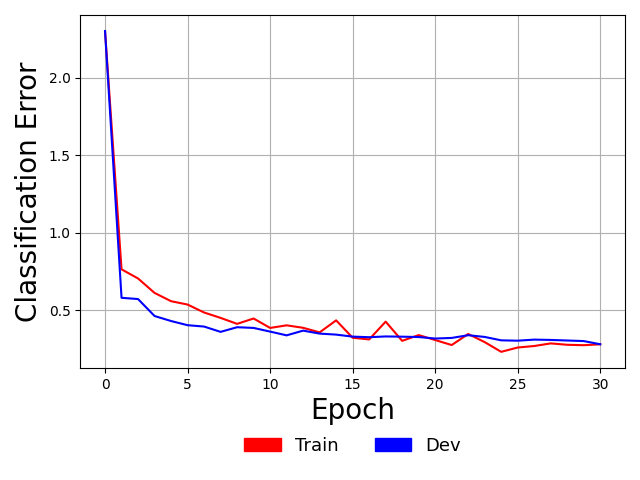
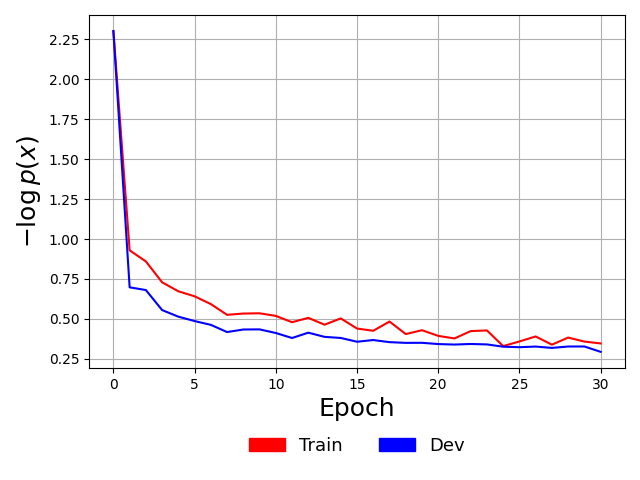
fixed minor bug in print out of valid log likelihood in walkthrough 7

diff --git a/ngclearn/engine/cables/rules/chebb_rule.py b/ngclearn/engine/cables/rules/chebb_rule.py
@@ -39,6 +39,7 @@ class CHebbRule(UpdateRule):
     def set_terms(self, terms, weights=None):
         if len(terms) == 4:
             self.terms = terms
+            self.weights = weights
         else:
             print("ERROR: {} must contain 4 terms "
                   "(input.len = {}) (rule.name = {})".format(self.rule_type,
@@ -46,6 +47,12 @@ class CHebbRule(UpdateRule):
             sys.exit(1)
 
     def calc_update(self, for_bias=False):
+        w0 = 1
+        w1 = 1
+        if self.weights is not None:
+            w0 = self.weights[0]
+            w1 = self.weights[1]
+
         preact1 = self.terms[0]
         postact1 = self.terms[1]
         preact2 = self.terms[2]
@@ -79,16 +86,16 @@ class CHebbRule(UpdateRule):
                 A_minus = transform.gte(params - self.w_min) #* self.eta_minus
 
         if for_bias == False: # update matrix
-            delta_plus = (tf.matmul(preact_term1, postact_term1, transpose_a=True)) * A_plus
-            delta_minus = tf.matmul(preact_term2, postact_term2, transpose_a=True) * A_minus
+            delta_plus = (tf.matmul(preact_term1 * w0, postact_term1 * w1, transpose_a=True)) * A_plus
+            delta_minus = tf.matmul(preact_term2 * w0, postact_term2 * w1, transpose_a=True) * A_minus
             # calculate the final update matrix
             #update = delta_plus + delta_minus
-            #update = delta_plus * self.eta_plus - delta_minus * self.eta_minus
+            update = delta_plus * self.eta_plus - delta_minus * self.eta_minus
             #update = delta_plus * self.eta_plus + delta_minus * self.eta_minus
             #update = delta_minus * self.eta_minus
-            update = delta_plus * self.eta_plus
+            #update = delta_plus * self.eta_plus
         else: # vector update
-            delta_plus = tf.reduce_sum(postact_term1, axis=0, keepdims=True) * A_plus
-            delta_minus = tf.reduce_sum(postact_term2, axis=0, keepdims=True) * A_minus
-            update = delta_plus - delta_minus
+            delta_plus = tf.reduce_sum(postact_term1 * w1, axis=0, keepdims=True) * A_plus
+            delta_minus = tf.reduce_sum(postact_term2 * w1, axis=0, keepdims=True) * A_minus
+            update = delta_plus * self.eta_plus - delta_minus * self.eta_minus
         return update

diff --git a/walkthroughs/walkthrough7/eval_model.py b/walkthroughs/walkthrough7/eval_model.py
@@ -74,6 +74,7 @@ def eval_model(agent, dataset, verbose=False):
     """
         Evaluates performance of agent on this fixed-point data sample
     """
+    ToD = 0.0 # total disrepancy over entire data pool
     Ly = 0.0 # metric/loss over entire data pool
     Acc = 0.0
     N = 0.0 # number samples seen so far
@@ -82,11 +83,10 @@ def eval_model(agent, dataset, verbose=False):
         y_name, y = batch[1]
         N += x.shape[0]
 
-        # simulate inference window
         y_hat, y_count = agent.settle(x, calc_update=False)
 
         # update tracked fixed-point losses
-        Ly = tf.reduce_sum( metric.cat_nll(tf.nn.softmax(y_hat), y) ) + Ly
+        Ly = tf.reduce_sum( metric.cat_nll(y_hat, y) ) + Ly
 
         # track raw accuracy
         y_ind = tf.cast(tf.argmax(y,1),dtype=tf.int32)
@@ -94,7 +94,6 @@ def eval_model(agent, dataset, verbose=False):
         comp = tf.cast(tf.equal(y_pred,y_ind),dtype=tf.float32)
         Acc += tf.reduce_sum( comp )
 
-        agent.clear()
         if verbose == True:
             print("\r Acc {}  Ly {} over {} samples...".format((Acc/(N * 1.0)), (Ly/(N * 1.0)), N),end="")
     if verbose == True:

diff --git a/ngclearn/utils/viz_utils.py b/ngclearn/utils/viz_utils.py
@@ -6,7 +6,8 @@ import matplotlib.patches as mpatches
 import numpy as np
 import tensorflow as tf
 
-def plot_learning_curves(acc_curve, dev_acc_curve, plot_fname=None, scale=1.0):
+def plot_learning_curves(acc_curve, dev_acc_curve, plot_fname=None, scale=1.0, 
+                         y_lab="Loss", x_lab="Iteration"):
     """
 
     Args:
@@ -29,11 +30,11 @@ def plot_learning_curves(acc_curve, dev_acc_curve, plot_fname=None, scale=1.0):
     y = y * scale
     vy = vy * scale
     x_iter = np.asarray(list(range(0, y.shape[0])))
-    fontSize = 20
+    fontSize = 18 #20
     plt.plot(x_iter, y, '-', color=colors[0])
     plt.plot(x_iter, vy, '-', color=colors[1])
-    plt.xlabel("Epoch", fontsize=fontSize)
-    plt.ylabel("Classification Error", fontsize=fontSize)
+    plt.xlabel(x_lab, fontsize=fontSize)
+    plt.ylabel(y_lab, fontsize=fontSize)
     plt.grid()
     acc = mpatches.Patch(color=colors[0], label='Train')
     vacc = mpatches.Patch(color=colors[1], label='Dev')

diff --git a/ngclearn/utils/data_utils.py b/ngclearn/utils/data_utils.py
@@ -75,6 +75,10 @@ class DataLoader(object):
             sys.exit(1)
         self.data_len = len( self.design_matrices[0][1] )
         self.ptrs = np.arange(0, self.data_len, 1)
+        if self.data_len < self.batch_size:
+            print("ERROR: batch size {} is > total number data samples {}".format(
+                  self.batch_size, self.data_len))
+            sys.exit(1)
 
     def __iter__(self):
         """

diff --git a/docs/walkthroughs/demo7_spiking.md b/docs/walkthroughs/demo7_spiking.md
@@ -483,10 +483,10 @@ trained SNN on the MNIST test set but with the synaptic adjustment turned off).
 You should get an output similar to the one below:
 
 ```console
-Ly = 1.4924614429473877  Acc = 0.9684000015258789
+Ly = 0.32633236050605774  Acc = 0.963699996471405
 ```
 
-meaning that our three-layer SNN has nearly reached `97`\% test classification
+meaning that our three-layer SNN has greater than `96`\% test classification
 accuracy (recall that we are counting spikes and, for each row in an evaluated
 test mini-batch matrix, the output LIF node with highest spike count at the end
 of `100` ms  is chosen as the SNN's predicted label). This evaluation script
